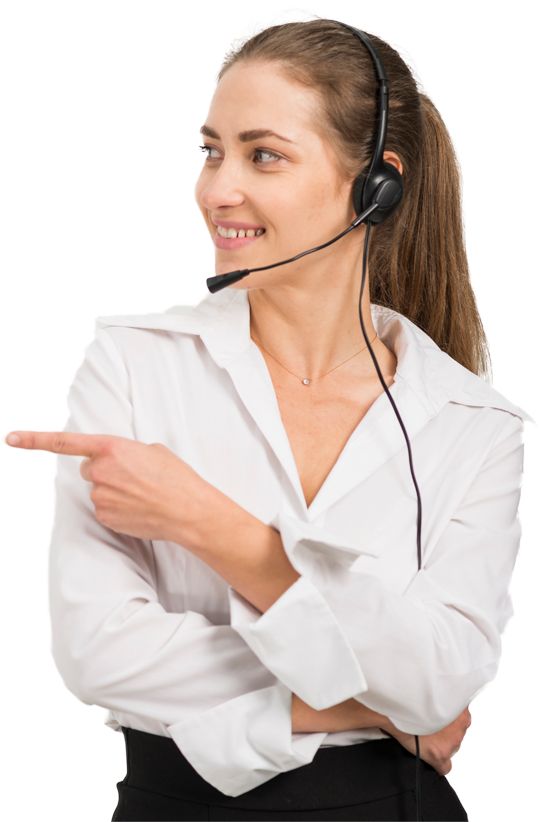
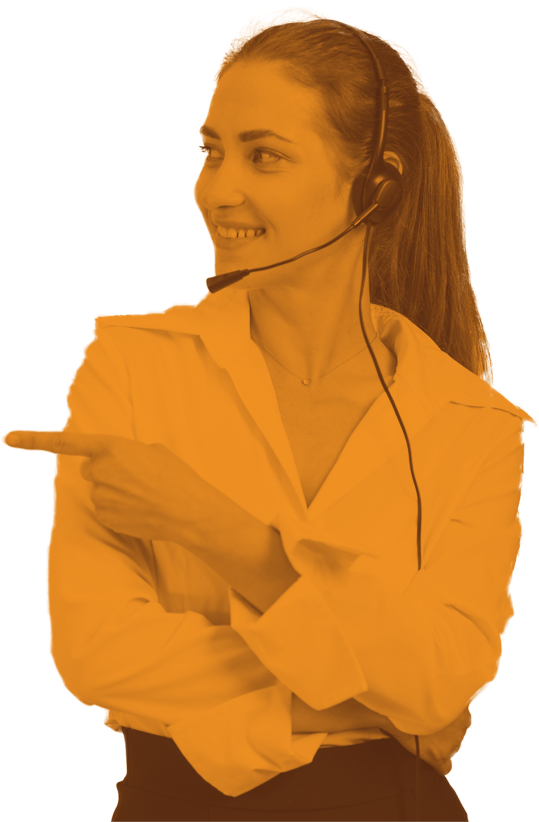
some changes

diff --git a/css/main.less b/css/main.less
@@ -20,16 +20,37 @@
 		font-weight: 300;
 	}
 
+	.box-content {
+		margin: auto;
+		margin-top: 20px;
+		max-width: 80%;
+	}
+
 	.box {
-		
+		position: relative;
 		min-height: 406px;
 		max-width: 301px;
 		min-width: 301px;
 		margin: auto;
+		margin-top: 20px;
 		border-radius: 10px;
 		box-shadow: 0 0 15px rgba(0, 0, 0, 0.15);
 		background-color: #ffffff;
 		transition: 0.3s;
+
+		&::after{
+			content: '•';
+			color: orange;
+			position: absolute;
+			top: 40%;
+			right: -15%;
+			font-size: 64px;
+		}
+		&:nth-last-child(1){
+			&::after{
+				content: '';
+			}
+		}
 		svg {
 			margin: 20px auto;
 			display: block;
@@ -55,12 +76,6 @@
 		box-shadow: 0 0 15px rgba(243, 146, 34, 0.58);
 	}
 
-	.dot {
[1 lines of base64/hex data omitted]
-		background-repeat: no-repeat;
-		background-position: center;
-	}
-
 	.przycisk {
 		border-radius: 10px;
 		color: #f39222;
@@ -69,6 +84,7 @@
 		text-decoration: none;
 		padding: 15px;
 		margin: 40px auto;
+		transition: 0.3s;
 		
 		display: inline-flex;
 		vertical-align: middle;
@@ -92,10 +108,11 @@
 }
 
 .faq{
-	background-image: url('../img/bg.png');
+	// background-image: url('../img/bg.png');
+	// background-color: #ffa500;
[1 lines of base64/hex data omitted]
 	text-align: center;
 	width: 100%;
-	overflow: hidden;
 	min-height: 700px;
 
 	.faq-header {
@@ -124,9 +141,11 @@
 			margin-top: 10px;
 			margin-left: 10%;
 			transition: all 0.3s;
+			width: 80%;
 			.faq-top{
 				cursor: pointer;
 				border-radius: 10px;
+				width: 100%;
 				border: 1px solid #ffffff;
 				padding: 5px;
 				height: 44px;
@@ -156,17 +175,20 @@
 				font-size: 22px;
 				font-weight: 700;
 				text-align: center;
-				line-height: 25px;
+				line-height: 29px;
 			}
 		}
 	}
+
 
 	.faq-bg2{
 		background-image: url('../img/bg2.png');
 		height: 842px;
 		width: 600px;
 		background-repeat: no-repeat;
+		margin-top: -60px;
 	}
+	
 	margin-bottom: -20px;
 }
 
@@ -225,10 +247,53 @@
 	}
 }
 
+
+
 @media (max-width: 1628px) {
 	.program{
-		.dot{
-			display: none;
+		.box{
+			&:nth-last-child(2){
+				&::after{
+					content: '';
+				}
+			}
+		}
+	}
+}
+
+@media (max-width: 1180px) {
+	.program{
+		.box{
+			&:nth-last-child(3){
+				&::after{
+					content: '';
+				}
+			}
+			&:nth-last-child(2){
+				&::after{
+					content: '•';
+					color: orange;
+					position: absolute;
+					top: 40%;
+					right: -15%;
+					font-size: 64px;
+				}
+			}
+		}
+	}
+}
+
+@media (max-width: 800px){
+	.program{
+		.box{
+			&::after{
+				content: '';
+			}
+			&:nth-last-child(2){
+				&::after{
+					content: '';
+				}
+			}
 		}
 	}
 }

diff --git a/css/main.css b/css/main.css
@@ -17,15 +17,33 @@
   font-size: 18px;
   font-weight: 300;
 }
+.program .box-content {
+  margin: auto;
+  margin-top: 20px;
+  max-width: 80%;
+}
 .program .box {
+  position: relative;
   min-height: 406px;
   max-width: 301px;
   min-width: 301px;
   margin: auto;
+  margin-top: 20px;
   border-radius: 10px;
   box-shadow: 0 0 15px rgba(0, 0, 0, 0.15);
   background-color: #ffffff;
   transition: 0.3s;
+}
+.program .box::after {
+  content: '•';
+  color: orange;
+  position: absolute;
+  top: 40%;
+  right: -15%;
+  font-size: 64px;
+}
+.program .box:nth-last-child(1)::after {
+  content: '';
 }
 .program .box svg {
   margin: 20px auto;
@@ -50,11 +68,6 @@
 .program .box:hover {
   box-shadow: 0 0 15px rgba(243, 146, 34, 0.58);
 }
-.program .dot {
[1 lines of base64/hex data omitted]
-  background-repeat: no-repeat;
-  background-position: center;
-}
 .program .przycisk {
   border-radius: 10px;
   color: #f39222;
@@ -63,6 +76,7 @@
   text-decoration: none;
   padding: 15px;
   margin: 40px auto;
+  transition: 0.3s;
   display: inline-flex;
   vertical-align: middle;
 }
@@ -81,10 +95,9 @@
   padding: 0px 8px;
 }
 .faq {
-  background-image: url('../img/bg.png');
[1 lines of base64/hex data omitted]
   text-align: center;
   width: 100%;
-  overflow: hidden;
   min-height: 700px;
   margin-bottom: -20px;
 }
@@ -113,10 +126,12 @@
   margin-top: 10px;
   margin-left: 10%;
   transition: all 0.3s;
+  width: 80%;
 }
 .faq .faq-content .faq-box .faq-top {
   cursor: pointer;
   border-radius: 10px;
+  width: 100%;
   border: 1px solid #ffffff;
   padding: 5px;
   height: 44px;
@@ -146,13 +161,14 @@
   font-size: 22px;
   font-weight: 700;
   text-align: center;
-  line-height: 25px;
+  line-height: 29px;
 }
 .faq .faq-bg2 {
   background-image: url('../img/bg2.png');
   height: 842px;
   width: 600px;
   background-repeat: no-repeat;
+  margin-top: -60px;
 }
 .obok {
   display: flex;
@@ -204,7 +220,28 @@
   }
 }
 @media (max-width: 1628px) {
-  .program .dot {
-    display: none;
+  .program .box:nth-last-child(2)::after {
+    content: '';
+  }
+}
+@media (max-width: 1180px) {
+  .program .box:nth-last-child(3)::after {
+    content: '';
+  }
+  .program .box:nth-last-child(2)::after {
+    content: '•';
+    color: orange;
+    position: absolute;
+    top: 40%;
+    right: -15%;
+    font-size: 64px;
+  }
+}
+@media (max-width: 800px) {
+  .program .box::after {
+    content: '';
+  }
+  .program .box:nth-last-child(2)::after {
+    content: '';
   }
 }

diff --git a/index.html b/index.html
@@ -12,7 +12,7 @@
 </head>
 
 <body>
-	<div class=" program">
+	<div class="program">
 		<div class="row">
 			<div class="col">
 				<header class="program-header">Dlaczego warto wybrać Terminal od nas?</header>
@@ -21,7 +21,7 @@
 		</div>
 
 
-		<div class="row justify-content-around" style="margin-top: 20px;">
+		<div class="row justify-content-around box-content">
 
 
 			<div class="col box">
@@ -41,7 +41,7 @@
 				</p>
 			</div>
 
-			<div class="col-1 dot"></div>
+
 
 			<div class="col box">
 				<svg id="SVGDoc" width="147" height="128" viewBox="0 0 147 88">
@@ -60,7 +60,7 @@
 				</p>
 			</div>
 
-			<div class="col-1 dot"></div>
+
 
 			<div class="col box">
 				<svg id="SVGDoc" width="139" height="128" viewBox="0 0 139 78">
@@ -79,7 +79,7 @@
 				</p>
 			</div>
 
-			<div class="col-1 dot"></div>
+
 
 			<div class="col box">
 				<?xml version="1.0" encoding="UTF-8"?>
@@ -255,9 +255,10 @@
 			</div>
 
 			<!-- tło -->
-			<div class="faq-bg2">
+			<div class="faq-bg2 faq-bg2-tint">
 				&nbsp;
 			</div>
+			<!-- <img src="img/bg2.png" class="faq-bg" /> -->
 		</div>
 	</div>
 
